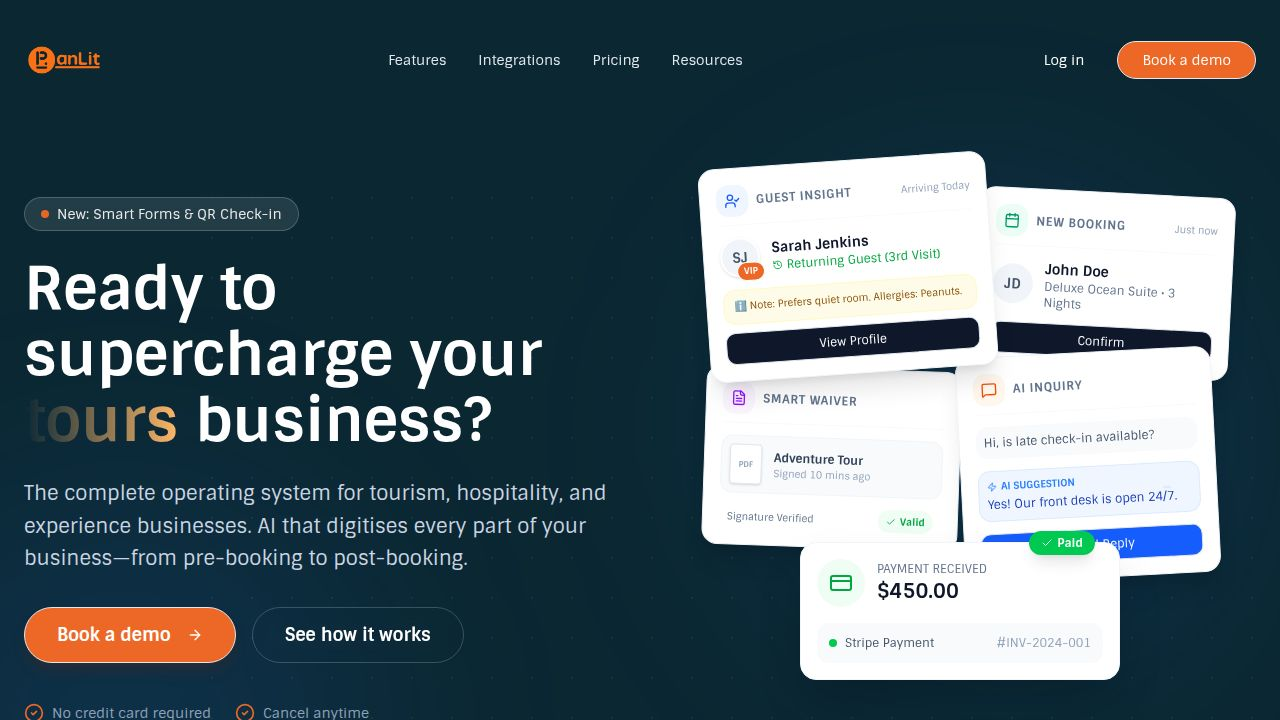
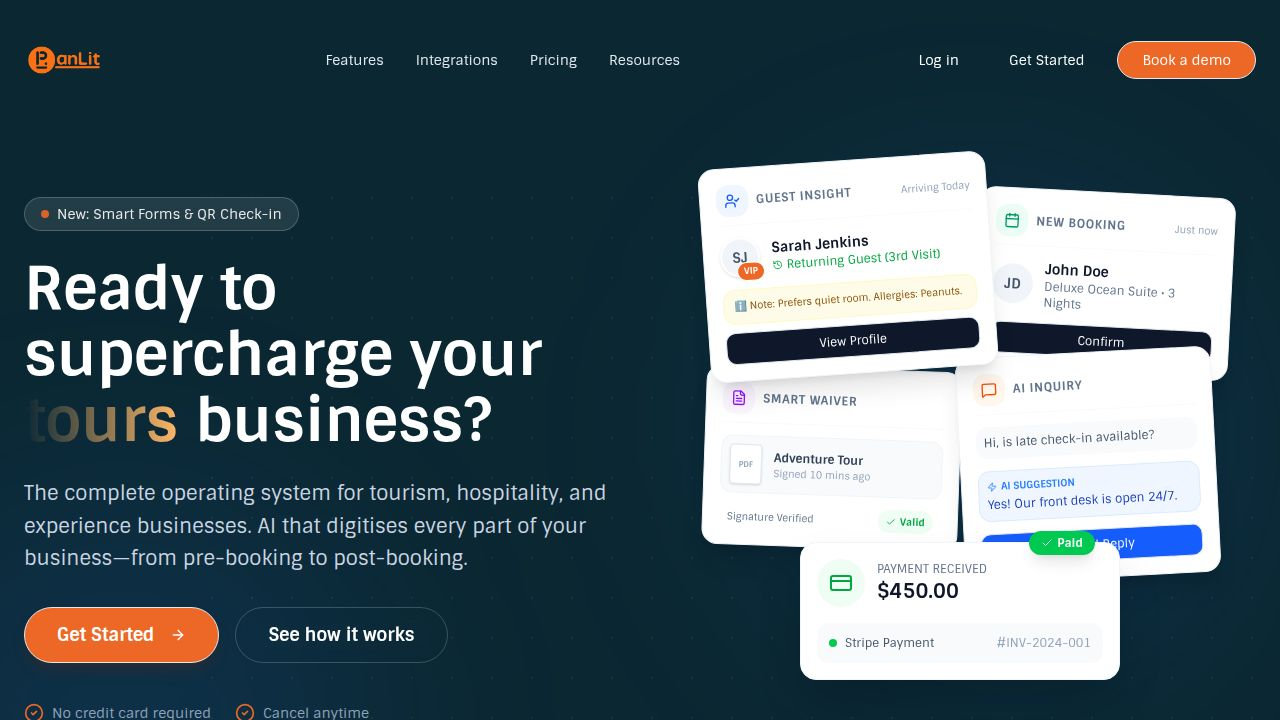
Update website navigation and hero section links to dashboard
Update hero button text from "Book a demo" to "Get Started" and link to dashboard. Update navigation bar links for "Log in" and "Get Started" to point to the dashboard URL.

Replit-Commit-Author: Agent
Replit-Commit-Session-Id: fe9462af-0e89-4b0e-af36-85f9b2ed8215
Replit-Commit-Checkpoint-Type: full_checkpoint
Replit-Commit-Event-Id: 502ec405-53e5-47cf-8bb4-9331be388e3a
Replit-Commit-Screenshot-Url: https://storage.googleapis.com/screenshot-production-us-central1/a373c8f0-a678-4f25-9078-90ab245125a7/fe9462af-0e89-4b0e-af36-85f9b2ed8215/pJKLkBS
Replit-Helium-Checkpoint-Created: true

diff --git a/client/src/components/landing/navbar.tsx b/client/src/components/landing/navbar.tsx
@@ -118,9 +118,16 @@ export function Navbar() {
             Resources
           </Link>
           <div className="h-px bg-slate-100 my-2" />
-          <Button variant="ghost" className="justify-start text-slate-600">
-            Log in
-          </Button>
+          <a href="https://dashboard.panlit.com/" target="_blank" rel="noopener noreferrer" className="w-full">
+            <Button variant="ghost" className="justify-start text-slate-600 w-full">
+              Log in
+            </Button>
+          </a>
+          <a href="https://dashboard.panlit.com/" target="_blank" rel="noopener noreferrer" className="w-full">
+            <Button variant="ghost" className="justify-start text-slate-600 w-full">
+              Get Started
+            </Button>
+          </a>
           <a href="https://tally.so/r/nrPA95" target="_blank" rel="noopener noreferrer" className="w-full">
             <Button className="bg-panlit-orange hover:bg-orange-600 text-white w-full rounded-full">
               Book a demo

diff --git a/client/src/components/landing/hero.tsx b/client/src/components/landing/hero.tsx
@@ -60,9 +60,9 @@ export function Hero() {
             </p>
 
             <div className="flex flex-col sm:flex-row gap-4 mb-10">
-              <a href="https://tally.so/r/nrPA95" target="_blank" rel="noopener noreferrer">
+              <a href="https://dashboard.panlit.com/" target="_blank" rel="noopener noreferrer">
                 <Button size="lg" className="bg-panlit-orange hover:bg-orange-600 text-white font-semibold text-lg h-14 px-8 rounded-full shadow-lg shadow-orange-900/20 transition-all hover:scale-105 w-full sm:w-auto">
-                  Book a demo
+                  Get Started
                   <ArrowRight className="ml-2 w-5 h-5" />
                 </Button>
               </a>
